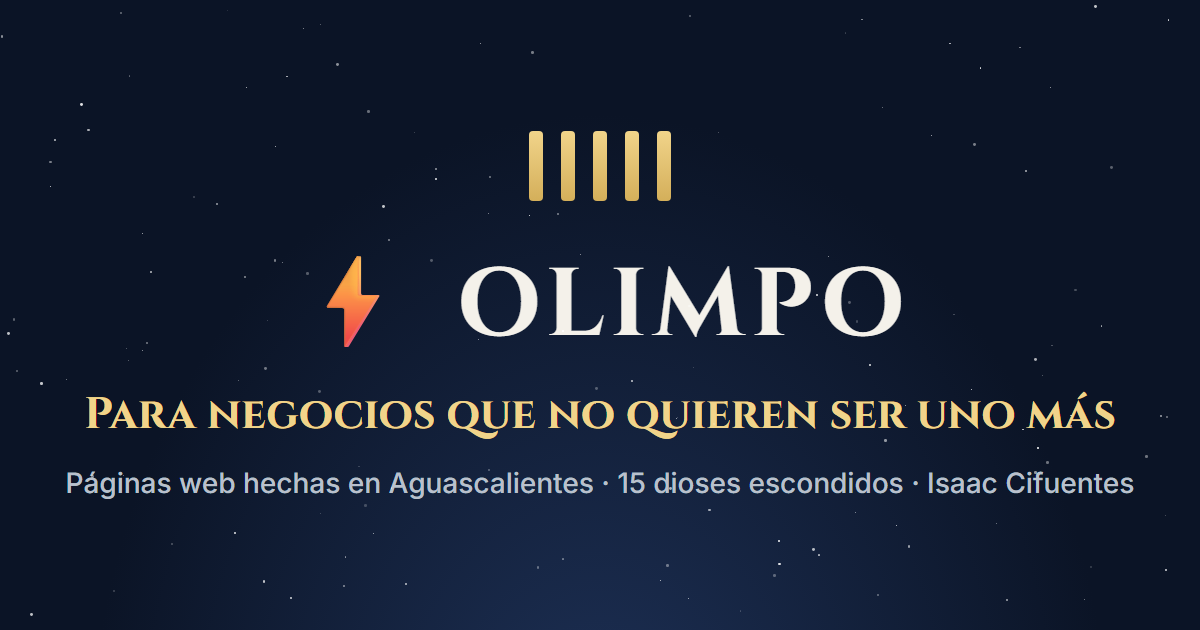
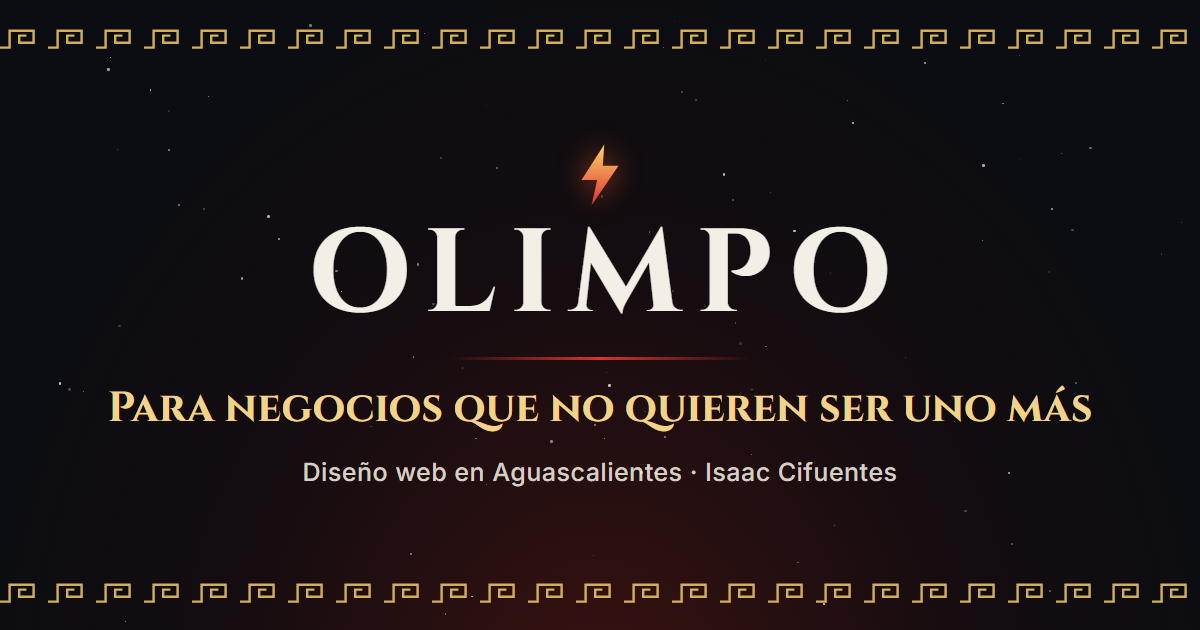
Vista previa centrada y sin spoilers de los dioses

diff --git a/index.html b/index.html
@@ -4,12 +4,13 @@
 <meta charset="utf-8">
 <meta name="viewport" content="width=device-width, initial-scale=1">
 <title>Olimpo · Diseño web en Aguascalientes</title>
-<meta name="description" content="Olimpo, de Isaac Cifuentes: páginas web para negocios de Aguascalientes que no quieren ser uno más. Con detalles, animaciones y 15 dioses escondidos.">
+<meta name="description" content="Olimpo, de Isaac Cifuentes: páginas web para negocios de Aguascalientes que no quieren ser uno más. Con detalles, animaciones y secretos para los curiosos.">
 <meta property="og:type" content="website">
 <meta property="og:url" content="https://codecap2.github.io/">
 <meta property="og:title" content="Olimpo · Para negocios que no quieren ser uno más">
-<meta property="og:description" content="Páginas web hechas en Aguascalientes, con detalles, animaciones y secretos. Este sitio esconde 15 dioses: ¿cuántos encuentras?">
-<meta property="og:image" content="https://codecap2.github.io/img/vista-previa.png?v=1">
+<meta property="og:description" content="Páginas web hechas en Aguascalientes, con detalles, animaciones y secretos para los curiosos. ¿Te atreves a explorar el Olimpo?">
+<meta property="og:image" content="https://codecap2.github.io/img/vista-previa.png?v=2">
+<meta property="og:image:alt" content="Olimpo · Para negocios que no quieren ser uno más · Diseño web en Aguascalientes">
 <meta property="og:image:width" content="1200">
 <meta property="og:image:height" content="630">
 <meta name="twitter:card" content="summary_large_image">
